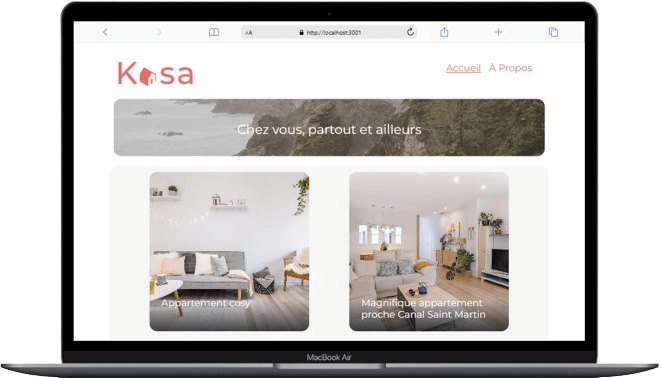
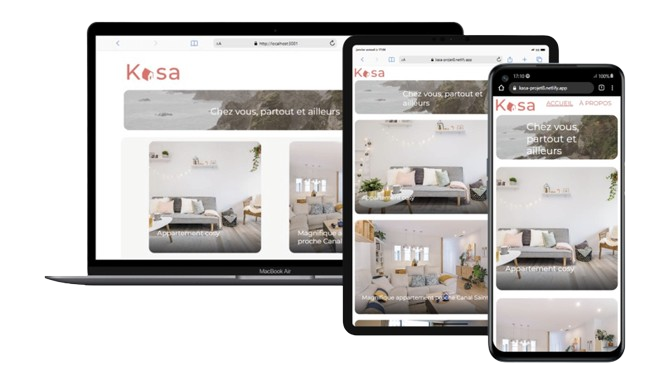
changement photo projet, changement modal projet

diff --git a/src/style/_modal.module.scss b/src/style/_modal.module.scss
@@ -68,15 +68,15 @@
         h2{
             margin: 0;
             text-align: center;
+            font-size: 1.5em;
         }
        
     }
     .text{
         font-size: 0.7em;
-        background-color: rgba(247, 191, 127, 0.982);
-        border-radius: 40px;
-        padding: 1em;
-        box-shadow: 0px 9px 12px -6px #000000;
+        padding: 3em;
+        border: 3px solid grey;
+        border-radius: 30px;
         @media (min-width : 768px) {
             width: 50%;
             font-size: 1em;

diff --git a/src/style/_projets.module.scss b/src/style/_projets.module.scss
@@ -88,9 +88,10 @@ button:hover {
          padding : 3em 2em;
         }
         .main_projet-div{
+          opacity: 1;
+          transition: opacity 0.5s ease;
         &:hover {
-          background: rgb(239, 183, 140);
-          border-radius: 20px;
+          opacity: 0.7;
           cursor: pointer;
             
           
